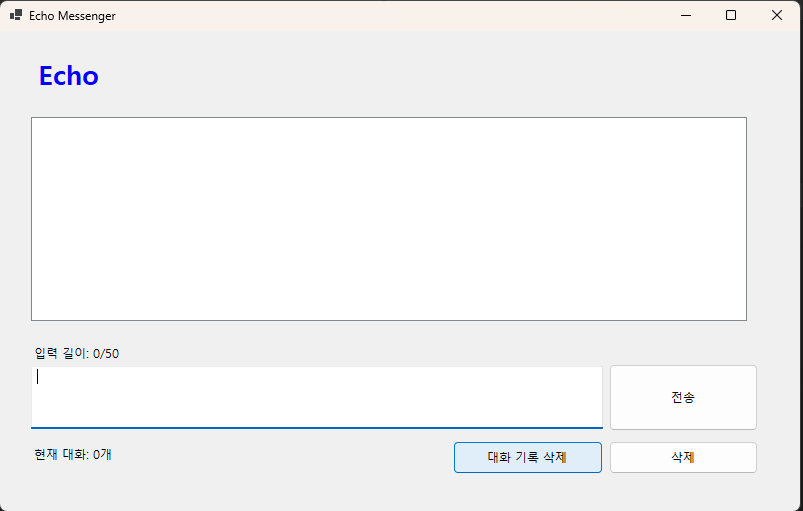
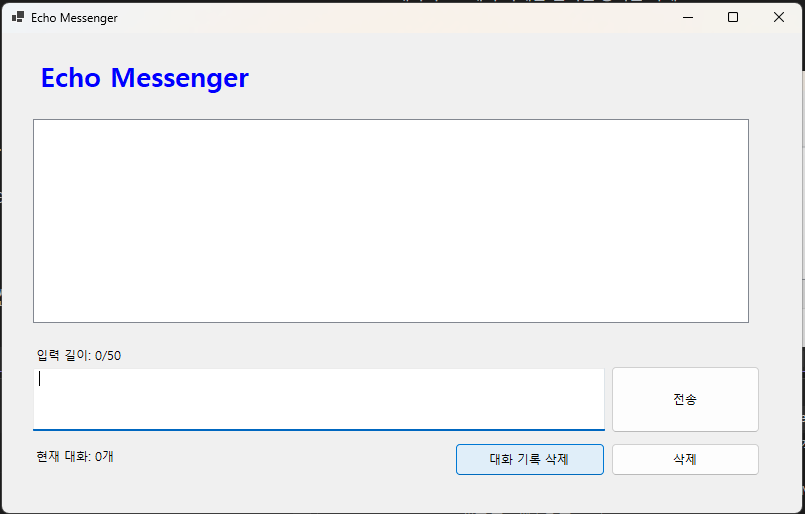
Form 타이틀 문자열 표시 오류 개선

diff --git a/Form1.Designer.cs b/Form1.Designer.cs
@@ -29,7 +29,7 @@
         private void InitializeComponent()
         {
             button1 = new Button();
-            EchoMessege = new Label();
+            EchoMessenger = new Label();
             listBox1 = new ListBox();
             txtmsg = new TextBox();
             lblCount = new Label();
@@ -48,22 +48,21 @@
             button1.UseVisualStyleBackColor = true;
             button1.Click += button1_Click;
             // 
-            // EchoMessege
+            // EchoMessenger
             // 
-            EchoMessege.Font = new Font("맑은 고딕", 20.25F, FontStyle.Bold, GraphicsUnit.Point, 129);
-            EchoMessege.ForeColor = Color.Blue;
-            EchoMessege.Location = new Point(31, 23);
-            EchoMessege.Name = "EchoMessege";
-            EchoMessege.Size = new Size(191, 60);
-            EchoMessege.TabIndex = 1;
-            EchoMessege.Text = "EchoMessege";
-            EchoMessege.Click += label1_Click;
+            EchoMessenger.Font = new Font("맑은 고딕", 20.25F, FontStyle.Bold, GraphicsUnit.Point, 129);
+            EchoMessenger.ForeColor = Color.Blue;
+            EchoMessenger.Location = new Point(31, 23);
+            EchoMessenger.Name = "EchoMessenger";
+            EchoMessenger.Size = new Size(263, 60);
+            EchoMessenger.TabIndex = 1;
+            EchoMessenger.Text = "EchoMessege";
+            EchoMessenger.Click += label1_Click;
             // 
             // listBox1
             // 
             listBox1.Font = new Font("맑은 고딕", 21.75F, FontStyle.Regular, GraphicsUnit.Point, 129);
             listBox1.FormattingEnabled = true;
-            listBox1.ItemHeight = 20;
             listBox1.Location = new Point(31, 86);
             listBox1.Name = "listBox1";
             listBox1.Size = new Size(716, 204);
@@ -73,8 +72,8 @@
             // txtmsg
             // 
             txtmsg.Location = new Point(31, 335);
-            txtmsg.Name = "txtmsg";
             txtmsg.Multiline = true;
+            txtmsg.Name = "txtmsg";
             txtmsg.Size = new Size(572, 63);
             txtmsg.TabIndex = 3;
             txtmsg.TextChanged += textBox1_TextChanged;
@@ -85,7 +84,7 @@
             lblCount.AutoSize = true;
             lblCount.Location = new Point(31, 416);
             lblCount.Name = "lblCount";
-            lblCount.Size = new Size(94, 15);
+            lblCount.Size = new Size(85, 15);
             lblCount.TabIndex = 4;
             lblCount.Text = "현재 대화: 0개";
             // 
@@ -114,7 +113,7 @@
             lblLength.AutoSize = true;
             lblLength.Location = new Point(31, 315);
             lblLength.Name = "lblLength";
-            lblLength.Size = new Size(101, 15);
+            lblLength.Size = new Size(92, 15);
             lblLength.TabIndex = 7;
             lblLength.Text = "입력 길이: 0/50";
             // 
@@ -129,7 +128,7 @@
             Controls.Add(lblCount);
             Controls.Add(txtmsg);
             Controls.Add(listBox1);
-            Controls.Add(EchoMessege);
+            Controls.Add(EchoMessenger);
             Controls.Add(button1);
             Name = "Form1";
             Text = "에코 메신저";
@@ -141,7 +140,7 @@
         #endregion
 
         private Button button1;
-        private Label EchoMessege;
+        private Label EchoMessenger;
         private ListBox listBox1;
         private TextBox txtmsg;
         private Label lblCount;

diff --git a/Form1.cs b/Form1.cs
@@ -26,7 +26,7 @@ namespace EchoMessenger
         private void Form1_Load(object sender, EventArgs e)
         {
             Text = "Echo Messenger";
-            EchoMessege.Text = "Echo Messenger";
+            EchoMessenger.Text = "Echo Messenger";
             button1.Text = "전송";
             btnDelete.Text = "삭제";
             btnClear.Text = "대화 기록 삭제";
